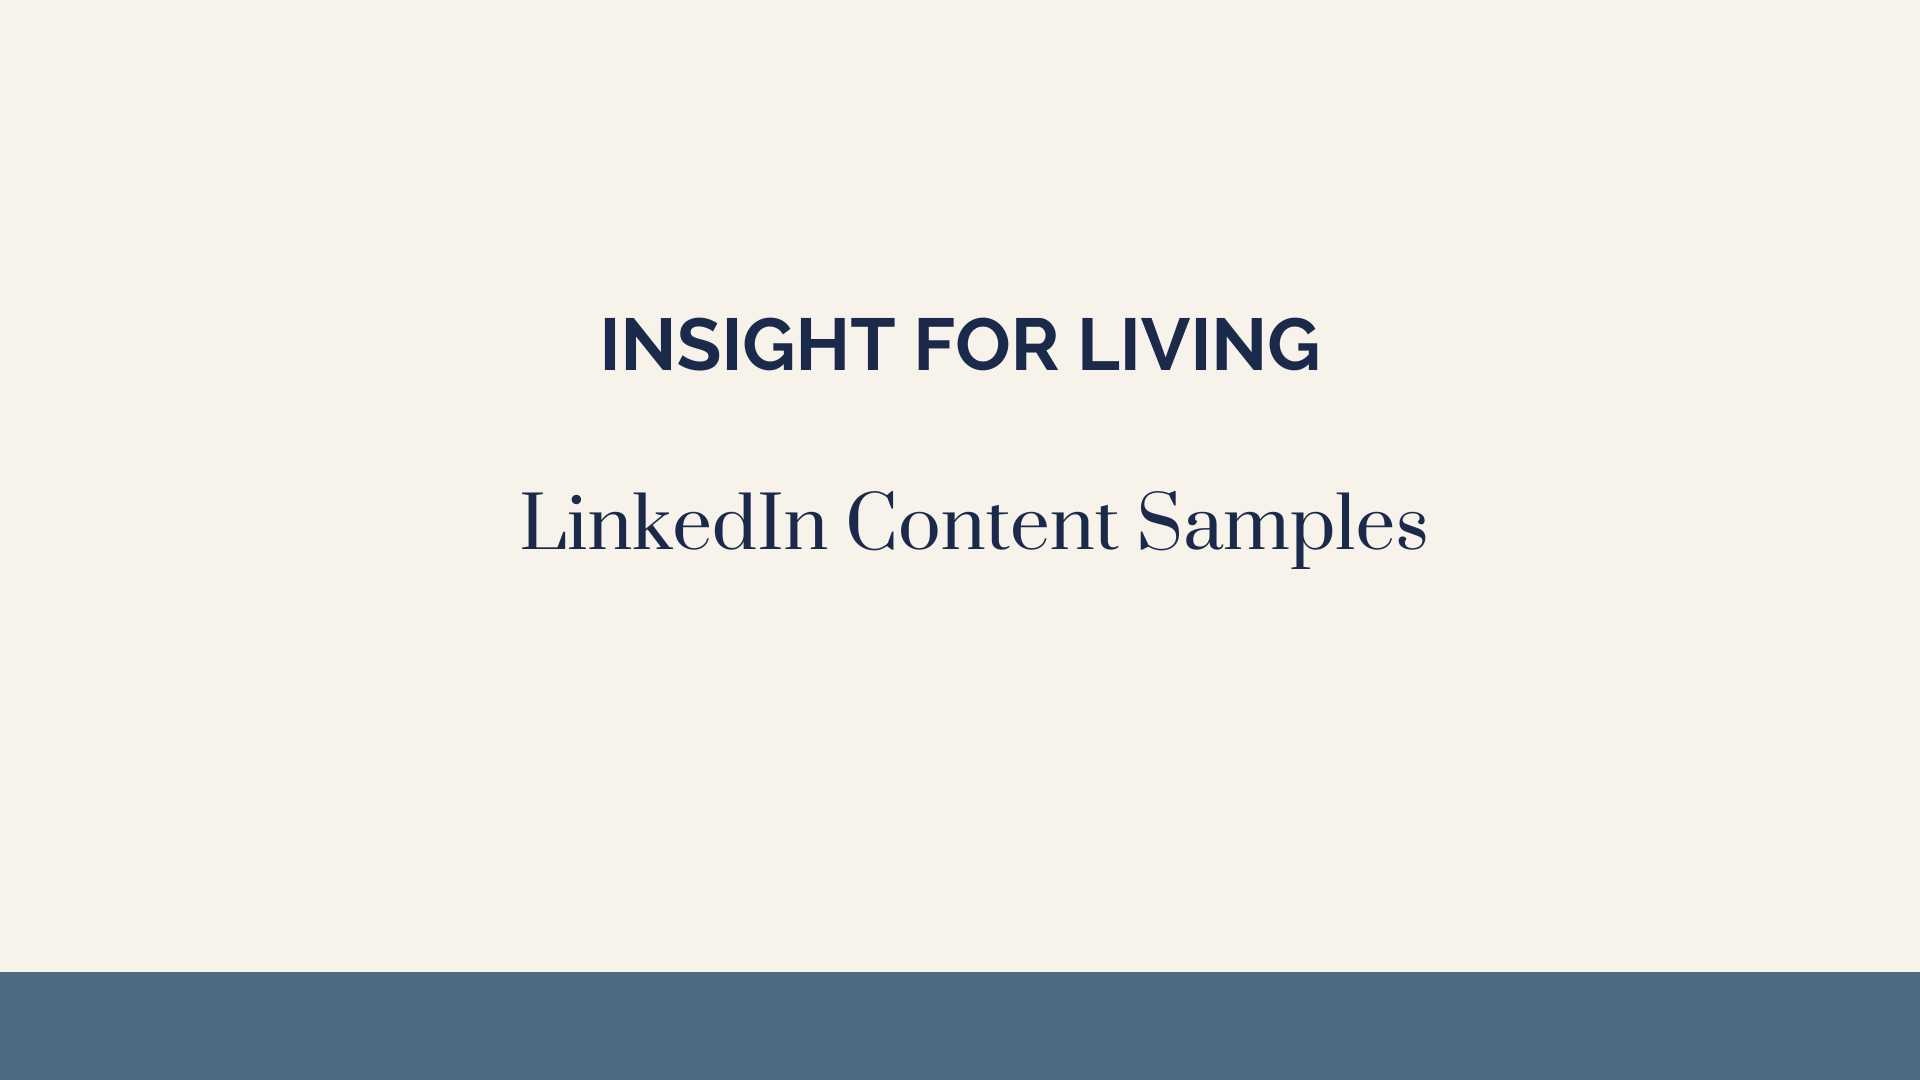
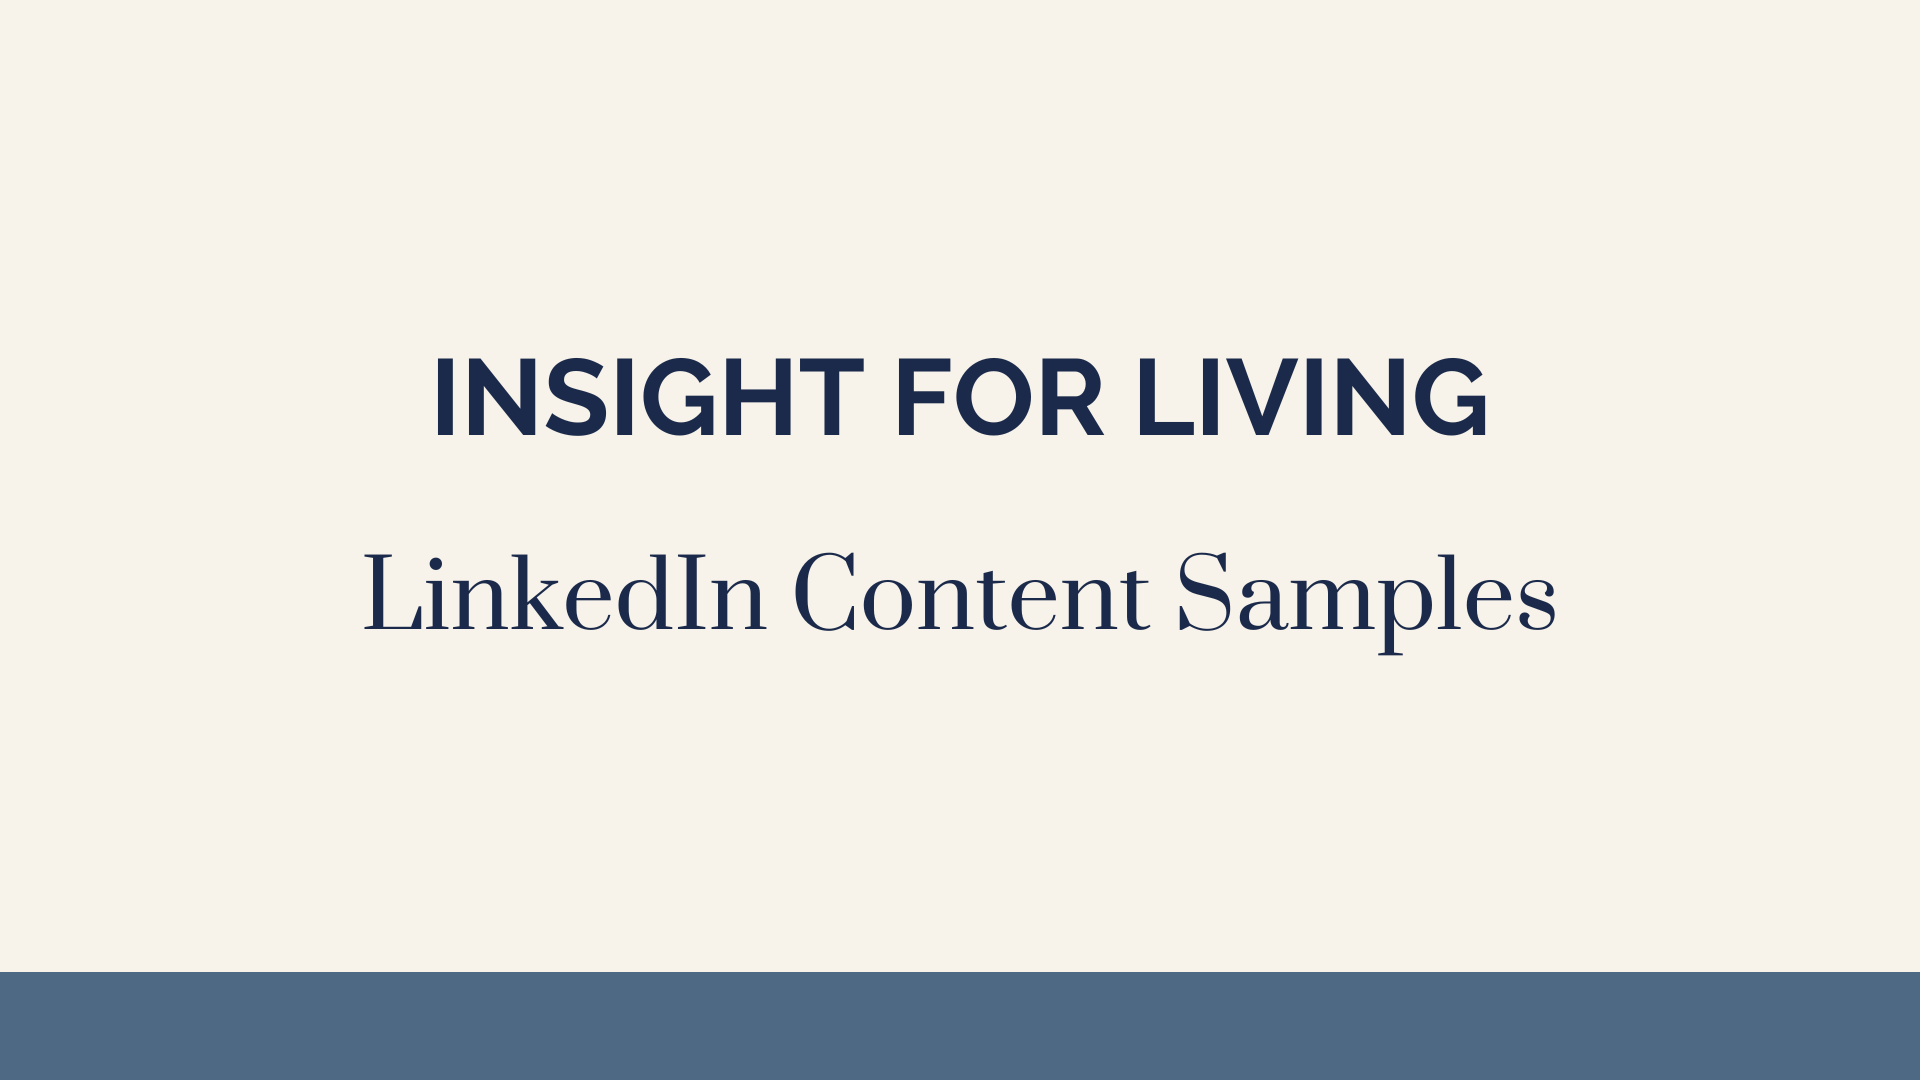
back to normal

Changed region(s): [[0.1875, 0.4583, 0.8125, 0.6111], [0.2188, 0.275, 0.7812, 0.4278]]

diff --git a/index.html b/index.html
@@ -284,7 +284,7 @@
         <section id="projects">
             <h2 class="text-4xl md:text-5xl text-slate-800 mb-12 text-center">Featured Projects</h2>
             <div id="project-list" class="grid md:grid-cols-2 gap-8">
-            </div>
+                </div>
         </section>
 
         <div class="section-divider"></div>
@@ -520,13 +520,6 @@
                 projectType: ['Web Analytics', 'SEM Optimization', 'Digital Advertising', 'ROI Analysis', 'Paid Search', 'Campaign Strategy']
             },
             {
-                id: 'insight-for-living',
-                image: 'images/insight_living_portfolio.png',
-                title: 'Insight for Living — Application Portfolio',
-                description: 'Concept posts built for the Social Media Content & Growth Specialist role',
-                pdfUrl: 'assets/Insight_for_Living_Application_Portfolio.pdf'
-            },
-            {
                 id: 'fleet-safety',
                 image: 'images/truck.jpg',
                 title: 'Fleet Safety & Efficiency Analysis',
@@ -556,15 +549,7 @@
 
         projectsData.forEach(project => {
             const projectItem = document.createElement('a');
-            
-            // Route logic configuration
-            if (project.pdfUrl) {
-                projectItem.href = project.pdfUrl;
-                projectItem.target = '_blank';
-            } else {
-                projectItem.href = `project-details.html?id=${project.id}`;
-            }
-            
+            projectItem.href = `project-details.html?id=${project.id}`;
             projectItem.className = 'project-card flex flex-col p-4 md:p-6 rounded-xl shadow-xl hover:shadow-2xl transition-shadow duration-300 transform hover:-translate-y-1';
             
             let toolsTagsHtml = '';